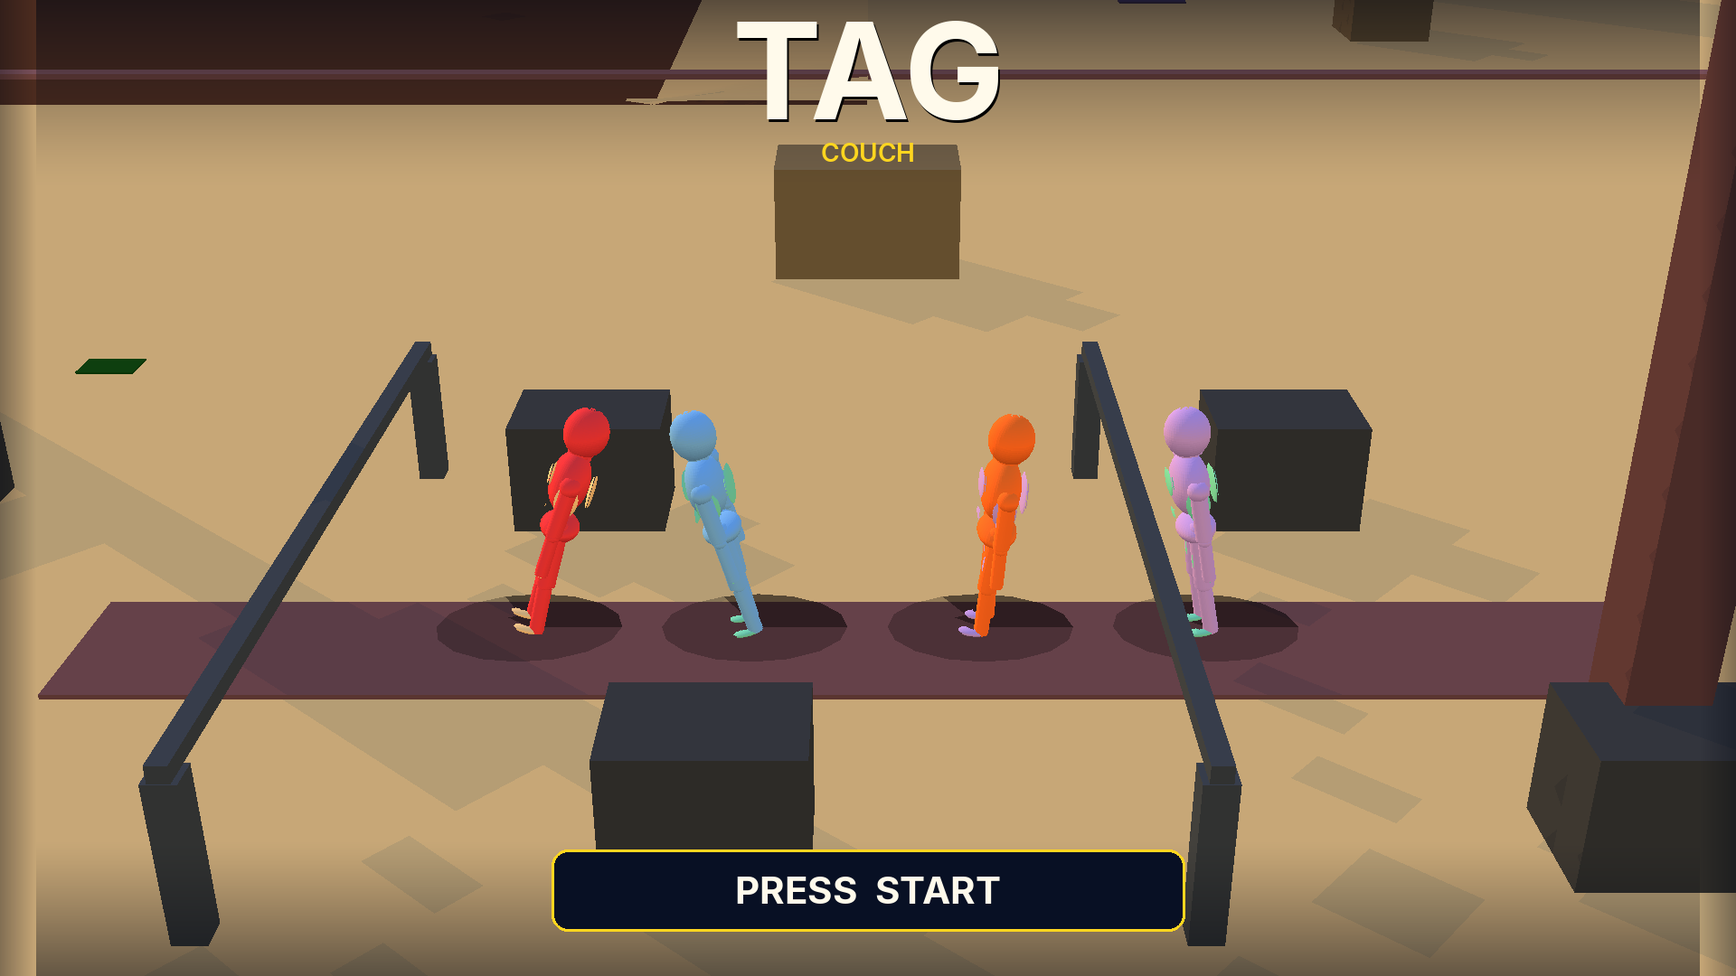
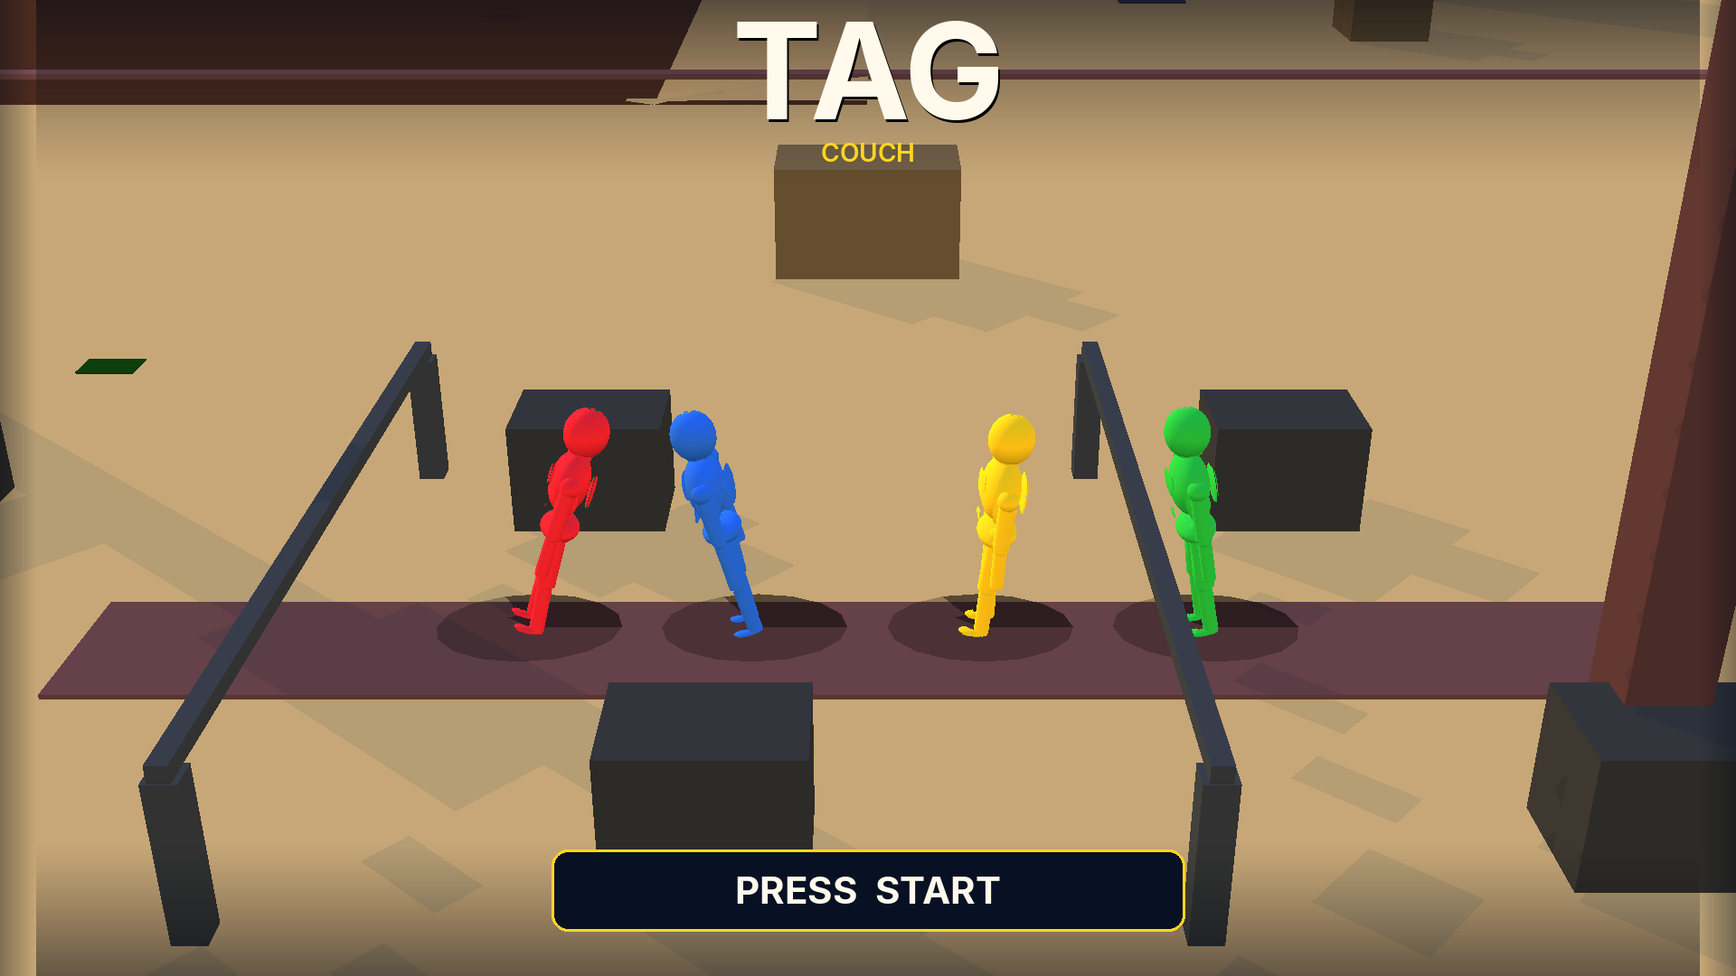
Record the title rail clearance and paint the seat colors.
The far-right runner's shin clears the bar, and the south post that stacks over the foot in perspective is farther down the path. Title and character cards use the badge colors.

diff --git a/Assets/Scripts/Level/ArenaStill.Front.cs b/Assets/Scripts/Level/ArenaStill.Front.cs
@@ -849,11 +849,12 @@ namespace Tag.Level
             WritePass26Line(folder, "pan_title.png", poses,
                 new[] { "run_pos.tris", "step.tris", "run_neg.tris", "step_b.tris" },
                 park, shadow, sox, soy, soz, srx, sry, srz, sux, suy, suz, lsx, lsy, lsz, half,
-                78f, 7f, 4f, 78f, 1.4f, 16f, 30f);
+                78f, 7f, 4f, 78f, 1.4f, 16f, 30f, true);
+            WritePass26Rail(folder, poses);
             WritePass26Line(folder, "pan_main.png", poses,
                 new[] { "step_b.tris", "run_neg.tris", "step.tris", "run_pos.tris" },
                 park, shadow, sox, soy, soz, srx, sry, srz, sux, suy, suz, lsx, lsy, lsz, half,
-                86f, 7f, 4f, 78.4f, 2f, 16f, 36f);
+                86f, 7f, 4f, 78.4f, 2f, 16f, 36f, false);
             WritePass26Portraits(folder, poses);
             WritePass26Results(folder, poses, park, shadow, sox, soy, soz, srx, sry, srz, sux, suy, suz, lsx, lsy, lsz, half);
             WritePass26Pause(folder, poses, park, shadow, sox, soy, soz, srx, sry, srz, sux, suy, suz, lsx, lsy, lsz, half);
@@ -864,14 +865,14 @@ namespace Tag.Level
             List<Tri> park, float[] shadow,
             float sox, float soy, float soz, float srx, float sry, float srz,
             float sux, float suy, float suz, float lsx, float lsy, float lsz, float half,
-            float ex, float ey, float ez, float tx, float ty, float tz, float fov)
+            float ex, float ey, float ez, float tx, float ty, float tz, float fov, bool slot)
         {
             float[] xs = { 75.45f, 77.15f, 78.85f, 80.55f };
             var tris = new List<Tri>(park.Count + 256);
             tris.AddRange(park);
             int from = tris.Count;
             for (int i = 0; i < 4; i++)
-                AddPosed(tris, Path.Combine(poses, files[i]), xs[i], 0.2f, 16f, 90f, i);
+                AddPosed(tris, Path.Combine(poses, files[i]), xs[i], 0.2f, 16f, 90f, i, slot);
             var seatShadow = (float[])shadow.Clone();
             StampShadow(tris, from, seatShadow, sox, soy, soz, srx, sry, srz, sux, suy, suz, lsx, lsy, lsz, half);
             ChasePng(tris, Path.Combine(folder, name), 1920, 1080,
@@ -887,7 +888,7 @@ namespace Tag.Level
                 var tris = new List<Tri>(8);
                 AddBox(tris, 0f, 1.3f, -2.4f, 28f, 18f, 0.3f, 8f / 255f, 16f / 255f, 36f / 255f);
                 AddBox(tris, 0f, -0.02f, 0.15f, 2.4f, 0.06f, 2.2f, 183f / 255f, 164f / 255f, 114f / 255f);
-                AddPosed(tris, Path.Combine(poses, files[i]), 0f, 0.02f, 0f, yaw[i], i);
+                AddPosed(tris, Path.Combine(poses, files[i]), 0f, 0.02f, 0f, yaw[i], i, true);
                 var shadow = new float[16 * 16];
                 for (int s = 0; s < shadow.Length; s++) shadow[s] = -1e20f;
                 PortraitPng(tris, Path.Combine(folder, "idle_" + i.ToString() + ".png"), 720, 900,
@@ -921,7 +922,7 @@ namespace Tag.Level
                 AddBox(tris, x[i], ground + h[i] * 0.5f, z, wide[i], h[i], 1.02f, sr[i], sg[i], sb[i]);
                 AddBox(tris, x[i], ground + h[i] + 0.03f, z, wide[i] + 0.08f, 0.06f, 1.10f, sr[i] * 1.15f, sg[i] * 1.1f, sb[i] * 0.9f);
                 AddBox(tris, x[i], ground + h[i] * 0.45f, z - 0.54f, wide[i] * 0.72f, h[i] * 0.55f, 0.06f, fr[i], fg[i], fb[i]);
-                AddPosed(tris, Path.Combine(poses, files[i]), x[i], ground + h[i] + 0.06f, z, 180f, i);
+                AddPosed(tris, Path.Combine(poses, files[i]), x[i], ground + h[i] + 0.06f, z, 180f, i, false);
             }
             for (int c = 0; c < 14; c++)
             {
@@ -949,7 +950,7 @@ namespace Tag.Level
             var tris = new List<Tri>(park.Count + 64);
             tris.AddRange(park);
             int from = tris.Count;
-            AddPosed(tris, Path.Combine(poses, "ready.tris"), 76.4f, 0.2f, 16f, 200f, 0);
+            AddPosed(tris, Path.Combine(poses, "ready.tris"), 76.4f, 0.2f, 16f, 200f, 0, false);
             var seatShadow = (float[])shadow.Clone();
             StampShadow(tris, from, seatShadow, sox, soy, soz, srx, sry, srz, sux, suy, suz, lsx, lsy, lsz, half);
             ChasePng(tris, Path.Combine(folder, "pause.png"), 1920, 1080,
@@ -957,13 +958,138 @@ namespace Tag.Level
                 seatShadow, sox, soy, soz, srx, sry, srz, sux, suy, suz, lsx, lsy, lsz, half, 32f);
         }
 
-        static void AddPosed(List<Tri> tris, string file, float x, float y, float z, float yaw, int seat)
+        static void AddPosed(List<Tri> tris, string file, float x, float y, float z, float yaw, int seat, bool slot)
         {
             if (!LoadHierFile(file)) return;
-            LookPair(seat, out float bodyR, out float bodyG, out float bodyB, out float accentR, out float accentG, out float accentB);
+            float bodyR, bodyG, bodyB, accentR, accentG, accentB;
+            if (slot) SlotPaint(seat, out bodyR, out bodyG, out bodyB, out accentR, out accentG, out accentB);
+            else LookPair(seat, out bodyR, out bodyG, out bodyB, out accentR, out accentG, out accentB);
             bool card = file.IndexOf("idle", StringComparison.Ordinal) >= 0 || file.IndexOf("ready", StringComparison.Ordinal) >= 0;
             AddHier(tris, x, y, z, yaw, bodyR, bodyG, bodyB, accentR, accentG, accentB, card);
             AddContact(tris, x, y, z);
+        }
+
+        /// <summary>
+        /// Seat paint from MenuTheme, the same colors as the P badges.
+        /// P1 red, P2 blue, P3 yellow, P4 green.
+        /// </summary>
+        static void SlotPaint(int seat, out float bodyR, out float bodyG, out float bodyB, out float accentR, out float accentG, out float accentB)
+        {
+            float[] r = { 0.95f, 0.16f, 1f, 0.16f };
+            float[] g = { 0.16f, 0.45f, 0.86f, 0.82f };
+            float[] b = { 0.22f, 1f, 0.12f, 0.28f };
+            int i = seat < 0 ? 0 : (seat > 3 ? 3 : seat);
+            bodyR = r[i]; bodyG = g[i]; bodyB = b[i];
+            accentR = r[i]; accentG = g[i]; accentB = b[i];
+        }
+
+        /// <summary>
+        /// Orthographic top and side of the far-right title runner and the bar rail.
+        /// Top is X across and Z down the path. Side looks along X so the gap to the
+        /// south post is a gap along Z, not a perspective stack.
+        /// </summary>
+        static void WritePass26Rail(string folder, string poses)
+        {
+            var tris = new List<Tri>(256);
+            Albedo("steel", out float sr, out float sg, out float sb);
+            Albedo("concrete", out float cr, out float cg, out float cb);
+            MegaParkP1Layout.Solid[] world = MegaParkP1Layout.BuildSolids();
+            for (int i = 0; i < world.Length; i++)
+            {
+                MegaParkP1Layout.Solid s = world[i];
+                if (s.Kind != "post" && s.Kind != "bar" && s.Kind != "vault") continue;
+                if (s.X < 76f || s.X > 86f || s.Z < 10f || s.Z > 22f) continue;
+                float r = s.Kind == "vault" ? cr : sr;
+                float g = s.Kind == "vault" ? cg : sg;
+                float b = s.Kind == "vault" ? cb : sb;
+                AddBox(tris, s.X, s.Y, s.Z, s.Sx, s.Sy, s.Sz, r, g, b);
+            }
+            AddBox(tris, 80.55f, 0.02f, 16f, 6f, 0.04f, 8f, 183f / 255f, 164f / 255f, 114f / 255f);
+            AddPosed(tris, Path.Combine(poses, "step_b.tris"), 80.55f, 0.2f, 16f, 90f, 3, true);
+            OrthoPng(tris, Path.Combine(folder, "rail_top.png"), 960, 720, 0, 78.4f, 82.6f, 11.6f, 17.4f);
+            OrthoPng(tris, Path.Combine(folder, "rail_side.png"), 960, 720, 1, 11.6f, 17.4f, -0.1f, 2.3f);
+        }
+
+        static void OrthoPng(List<Tri> tris, string path, int w, int h, int axis, float u0, float u1, float v0, float v1)
+        {
+            var rgb = new byte[w * h * 3];
+            var depth = new float[w * h];
+            for (int i = 0; i < depth.Length; i++) depth[i] = -1e20f;
+            for (int y = 0; y < h; y++)
+            {
+                for (int x = 0; x < w; x++)
+                {
+                    int p = (y * w + x) * 3;
+                    rgb[p] = 214;
+                    rgb[p + 1] = 220;
+                    rgb[p + 2] = 224;
+                }
+            }
+            for (int i = 0; i < tris.Count; i++)
+                OrthoTri(tris[i], rgb, depth, w, h, axis, u0, u1, v0, v1);
+            WritePng(path, rgb, w, h);
+        }
+
+        static void OrthoTri(Tri t, byte[] rgb, float[] depth, int w, int h, int axis, float u0, float u1, float v0, float v1)
+        {
+            OrthoVert(t.X0, t.Y0, t.Z0, w, h, axis, u0, u1, v0, v1, out float x0, out float y0, out float d0);
+            OrthoVert(t.X1, t.Y1, t.Z1, w, h, axis, u0, u1, v0, v1, out float x1, out float y1, out float d1);
+            OrthoVert(t.X2, t.Y2, t.Z2, w, h, axis, u0, u1, v0, v1, out float x2, out float y2, out float d2);
+            float area = (x1 - x0) * (y2 - y0) - (y1 - y0) * (x2 - x0);
+            if (area < 0f)
+            {
+                float sx = x1, sy = y1, sd = d1;
+                x1 = x2; y1 = y2; d1 = d2;
+                x2 = sx; y2 = sy; d2 = sd;
+                area = -area;
+            }
+            if (area < 0.01f) return;
+            int minX = (int)Math.Floor(Math.Min(x0, Math.Min(x1, x2)));
+            int maxX = (int)Math.Ceiling(Math.Max(x0, Math.Max(x1, x2)));
+            int minY = (int)Math.Floor(Math.Min(y0, Math.Min(y1, y2)));
+            int maxY = (int)Math.Ceiling(Math.Max(y0, Math.Max(y1, y2)));
+            if (minX < 0) minX = 0;
+            if (minY < 0) minY = 0;
+            if (maxX >= w) maxX = w - 1;
+            if (maxY >= h) maxY = h - 1;
+            byte cr = (byte)(Math.Max(0f, Math.Min(1f, t.R)) * 255f);
+            byte cg = (byte)(Math.Max(0f, Math.Min(1f, t.G)) * 255f);
+            byte cb = (byte)(Math.Max(0f, Math.Min(1f, t.B)) * 255f);
+            float inv = 1f / area;
+            for (int y = minY; y <= maxY; y++)
+            {
+                for (int x = minX; x <= maxX; x++)
+                {
+                    float px = x + 0.5f;
+                    float py = y + 0.5f;
+                    float w0 = ((x1 - px) * (y2 - py) - (y1 - py) * (x2 - px)) * inv;
+                    float w1 = ((x2 - px) * (y0 - py) - (y2 - py) * (x0 - px)) * inv;
+                    float w2 = 1f - w0 - w1;
+                    if (w0 < -0.001f || w1 < -0.001f || w2 < -0.001f) continue;
+                    float d = d0 * w0 + d1 * w1 + d2 * w2;
+                    int i = y * w + x;
+                    if (d <= depth[i]) continue;
+                    depth[i] = d;
+                    int p = i * 3;
+                    rgb[p] = cr;
+                    rgb[p + 1] = cg;
+                    rgb[p + 2] = cb;
+                }
+            }
+        }
+
+        static void OrthoVert(float x, float y, float z, int w, int h, int axis, float u0, float u1, float v0, float v1,
+            out float px, out float py, out float depth)
+        {
+            float u = axis == 0 ? x : z;
+            float v = axis == 0 ? z : y;
+            depth = axis == 0 ? y : -x;
+            float su = u1 - u0;
+            float sv = v1 - v0;
+            if (Math.Abs(su) < 1e-4f) su = 1f;
+            if (Math.Abs(sv) < 1e-4f) sv = 1f;
+            px = (u - u0) / su * (w - 1);
+            py = (1f - (v - v0) / sv) * (h - 1);
         }
 
         static void StampShadow(List<Tri> tris, int from, float[] shadow,

diff --git a/Assets/Scripts/UI/Menu/MenuNoClip.cs b/Assets/Scripts/UI/Menu/MenuNoClip.cs
@@ -2,6 +2,7 @@ using System;
 using System.Globalization;
 using System.IO;
 using Tag.Art;
+using Tag.Level;
 using UnityEngine;
 
 namespace Tag.Ui.Menu
@@ -22,6 +23,8 @@ namespace Tag.Ui.Menu
         static int RayTests;
         static float[][][] BindDepth;
         static float[] PoseMax;
+        static bool RailKnown;
+        static float RailClear;
 
         public static bool Run(string repo, out string line, bool verbose)
         {
@@ -34,6 +37,8 @@ namespace Tag.Ui.Menu
             Trace = probe;
             RayTests = 0;
             PoseMax = new float[6];
+            RailKnown = false;
+            RailClear = 0f;
             var sw = System.Diagnostics.Stopwatch.StartNew();
             int screens = 0;
             int frames = 0;
@@ -85,6 +90,7 @@ namespace Tag.Ui.Menu
             Results(rig, ref frames, ref fails, ref selfMax, ref worldMax, ref worstSelf, ref worstWorld, hit);
             screens++;
             screens++;
+            TitleRail(rig, ref fails, ref worldMax, ref worstWorld);
             Finish(screens, frames, selfMax, worldMax, fails, out line);
             if (verbose || fails != 0)
             {
@@ -109,6 +115,126 @@ namespace Tag.Ui.Menu
                 + " step=" + Cm(PoseAt(3))
                 + " cheer=" + Cm(PoseAt(4))
                 + " slump=" + Cm(PoseAt(5));
+            if (RailKnown)
+                line += " rail=" + Cm(RailClear);
+        }
+
+        /// <summary>
+        /// Title still on the south straight. The far-right runner stands by the
+        /// bar posts. Foot and shin must clear that rail by 2 cm. rail= is that
+        /// gap in centimetres.
+        /// </summary>
+        static void TitleRail(Rig rig, ref int fails, ref float worldMax, ref string worstWorld)
+        {
+            string note;
+            float gap = TitleRailGap(rig, out note);
+            RailClear = gap;
+            RailKnown = true;
+            if (gap < 0f && -gap > worldMax)
+            {
+                worldMax = -gap;
+                worstWorld = note;
+            }
+            if (gap < 0.02f)
+            {
+                fails++;
+                if (worstWorld.Length == 0) worstWorld = note;
+            }
+            if (Verbose)
+                Console.Error.WriteLine("no-clip " + note);
+        }
+
+        public static string ProbeRail(string repo)
+        {
+            Rig rig = Rig.Load(Path.Combine(repo, "Docs", "UiStills", "hier-rigid.bin"));
+            string note;
+            float gap = TitleRailGap(rig, out note);
+            return "rail=" + (gap * 100f).ToString("0.00", CultureInfo.InvariantCulture) + " " + note;
+        }
+
+        static float TitleRailGap(Rig rig, out string note)
+        {
+            float[] xs = { 75.45f, 77.15f, 78.85f, 80.55f };
+            float halfPi = 1.5707963f;
+            MenuAlive.Angles[] angles =
+            {
+                MenuAlive.Run(halfPi / 2.4f),
+                MenuAlive.Step(0.5f / 0.28f),
+                MenuAlive.Run(-halfPi / 2.4f),
+                MenuAlive.Step(0.22f / 0.28f)
+            };
+            MegaParkP1Layout.Solid[] world = MegaParkP1Layout.BuildSolids();
+            float best = 1e9f;
+            float bestPost = 1e9f;
+            string postNote = "post none";
+            note = "rail clear";
+            var posed = new Posed(rig);
+            for (int i = 0; i < 4; i++)
+            {
+                posed.Place(From(angles[i]), 0f, 0f, 0f);
+                for (int p = 0; p < rig.Pieces; p++)
+                {
+                    string piece = rig.Piece[p].Name;
+                    if (piece == null) continue;
+                    if (piece.IndexOf("Foot", StringComparison.Ordinal) < 0 && piece.IndexOf("LowerLeg", StringComparison.Ordinal) < 0)
+                        continue;
+                    int samples = rig.Piece[p].Samples;
+                    for (int s = 0; s < samples; s++)
+                    {
+                        float x = xs[i] + posed.Wz[p][s];
+                        float y = 0.2f + posed.Wy[p][s];
+                        float z = 16f - posed.Wx[p][s];
+                        for (int w = 0; w < world.Length; w++)
+                        {
+                            MegaParkP1Layout.Solid solid = world[w];
+                            if (!RailKind(solid.Kind)) continue;
+                            if (!NearRail(solid, x, z)) continue;
+                            float gap = BoxGap(x, y, z, solid);
+                            if (gap < best)
+                            {
+                                best = gap;
+                                note = "P" + (i + 1).ToString(CultureInfo.InvariantCulture)
+                                    + " " + piece + " " + solid.Name
+                                    + " gap=" + (gap * 100f).ToString("0.00", CultureInfo.InvariantCulture);
+                            }
+                            if (solid.Kind == "post" && gap < bestPost)
+                            {
+                                bestPost = gap;
+                                postNote = solid.Name + " " + (gap * 100f).ToString("0.00", CultureInfo.InvariantCulture);
+                            }
+                        }
+                    }
+                }
+            }
+            note = note + " post=" + postNote;
+            return best;
+        }
+
+        static bool RailKind(string kind)
+        {
+            return kind == "post" || kind == "bar" || kind == "fence";
+        }
+
+        static bool NearRail(MegaParkP1Layout.Solid s, float x, float z)
+        {
+            float hx = s.Sx * 0.5f + 3f;
+            float hz = s.Sz * 0.5f + 3f;
+            if (x < s.X - hx || x > s.X + hx) return false;
+            if (z < s.Z - hz || z > s.Z + hz) return false;
+            return true;
+        }
+
+        static float BoxGap(float x, float y, float z, MegaParkP1Layout.Solid s)
+        {
+            float dx = Math.Abs(x - s.X) - s.Sx * 0.5f;
+            float dy = Math.Abs(y - s.Y) - s.Sy * 0.5f;
+            float dz = Math.Abs(z - s.Z) - s.Sz * 0.5f;
+            if (dx <= 0f && dy <= 0f && dz <= 0f)
+                return Math.Max(dx, Math.Max(dy, dz));
+            float ox = dx > 0f ? dx : 0f;
+            float oy = dy > 0f ? dy : 0f;
+            float oz = dz > 0f ? dz : 0f;
+            return (float)Math.Sqrt(ox * ox + oy * oy + oz * oz);
         }
 
         static float PoseAt(int i)

diff --git a/Tools/StrafeJumpSim/Program.cs b/Tools/StrafeJumpSim/Program.cs
@@ -14,6 +14,11 @@ static class Program
             Console.WriteLine(Tag.Level.ArenaStill.WriteHudChases(folder));
             return 0;
         }
+        if (args != null && args.Length > 0 && args[0] == "--rail")
+        {
+            Console.WriteLine(Tag.Ui.Menu.MenuNoClip.ProbeRail(RepoRoot()));
+            return 0;
+        }
         if (args != null && args.Length > 0 && args[0] == "--pass26")
         {
             string repo = RepoRoot();

diff --git a/Docs/UiPlan.md b/Docs/UiPlan.md
@@ -247,7 +247,7 @@ The title camera is raised south of the straight, so the fence and the crates si
 
 ## Pass 26
 
-The 1.2% scale on the menu poses is gone. It cleared the overlap check by freezing the runners, and the cause is the mannequin: the hip shell already sits about 4 cm into the thigh at rest. That rest overlap is the baseline. A pose may not deepen it, or any other overlap, by more than 0.5 cm. Joined neighbours are exempt only within 3 cm of the joint. The live poses are authored on the current rig. Idle breathes and shifts its weight. Character select settles into a ready stance. On RESULTS the winner leans back, the next two places open a little less, and last place bows. A raised arm, a clapped elbow, a tucked vault knee, and a full stride sink the chest or the hip into the limb, so those beats wait for the trimmed-rig candidate. The title camera stays raised south of the straight, with the fence and the crates under the frame. P2 stays a solid blue body. The character cards wear a red, blue, yellow, and green slot frame. The check is still every frame at 30 fps. The deepest extra overlap on the authored poses is under half a centimetre: idle 0.43, ready 0.41, run 0.47, step 0.42, cheer 0.43, slump 0.46. Mockups are in `Docs/UiStills/pass26/`.
+The 1.2% scale on the menu poses is gone. It cleared the overlap check by freezing the runners, and the cause is the mannequin: the hip shell already sits about 4 cm into the thigh at rest. That rest overlap is the baseline. A pose may not deepen it, or any other overlap, by more than 0.5 cm. Joined neighbours are exempt only within 3 cm of the joint. The live poses are authored on the current rig. Idle breathes and shifts its weight. Character select settles into a ready stance. On RESULTS the winner leans back, the next two places open a little less, and last place bows. A raised arm, a clapped elbow, a tucked vault knee, and a full stride sink the chest or the hip into the limb, so those beats wait for the trimmed-rig candidate. The title camera stays raised south of the straight, with the fence and the crates under the frame. The title runners and the character-card runners wear the seat colors on the P badges: P1 red, P2 blue, P3 yellow, P4 green. That is the paint the title parade already uses. A picked skin on the live character card is still the Hier look, and the match chase stays the look pairs, so P3's orange and P4's lavender are those looks, not the seat badges. P2 stays a solid blue body. The character cards wear a red, blue, yellow, and green slot frame. The far-right title runner's left shin clears the bar by 56.93 cm. The south post that stacks over that foot in the perspective still, BarPost_S6, clears by 313.58 cm. The ortho top and side views are in the pass 26 stills, and the no-clip line reports the gap as rail. The check is still every frame at 30 fps. The deepest extra overlap on the authored poses is under half a centimetre: idle 0.43, ready 0.41, run 0.47, step 0.42, cheer 0.43, slump 0.46. Mockups are in `Docs/UiStills/pass26/`.
 
 ## Later passes
 

diff --git a/Docs/WhatsNew.md b/Docs/WhatsNew.md
@@ -316,7 +316,7 @@ The twenty-third pass makes the first color the body you see in the chase, and t
 
 The twenty-fourth pass lifts the title camera so the fence stays under the frame and all four runners read on the path. The menu keeps that line clear of the lockup and the buttons. P2's card is the same solid body as the others. The seat color stays on the P badge, and the big frames stay a quiet stroke. A menu pose keeps each body part out of the scenery and out of the other parts, checked every frame at 30 fps, with joined neighbours clear past 3 cm of the joint and a 0.5 cm depth limit. The shown run, vault, idle, and results beats stay a small share of those poses, and the confetti falls in front of the runners. Space still jumps. Mockups are in `Docs/UiStills/pass24/`.
 
-The twenty-sixth pass takes that scale off. Idle breathes and shifts its weight, character select holds a ready stance, the RESULTS winner leans back, and last place bows. The hip shell already rests about 4 cm inside the thigh, and a pose may not push that, or any other overlap, deeper than 0.5 cm. A raised arm, a clap, a vault knee, and a full stride still sink on this rig, so they wait for the trimmed-rig candidate. The title camera stays up, the fence stays under the frame, and P2's body stays solid blue. Space still jumps. Mockups are in `Docs/UiStills/pass26/`.
+The twenty-sixth pass takes that scale off. Idle breathes and shifts its weight, character select holds a ready stance, the RESULTS winner leans back, and last place bows. The hip shell already rests about 4 cm inside the thigh, and a pose may not push that, or any other overlap, deeper than 0.5 cm. A raised arm, a clap, a vault knee, and a full stride still sink on this rig, so they wait for the trimmed-rig candidate. The title camera stays up, the fence stays under the frame, and P2's body stays solid blue. The title and the character cards paint the seat color, the same red, blue, yellow, and green as the P badges. The far-right title runner clears the bar rail, and the gap is on the no-clip line. Space still jumps. Mockups are in `Docs/UiStills/pass26/`.
 
 ## Motion, ninth pass
 
